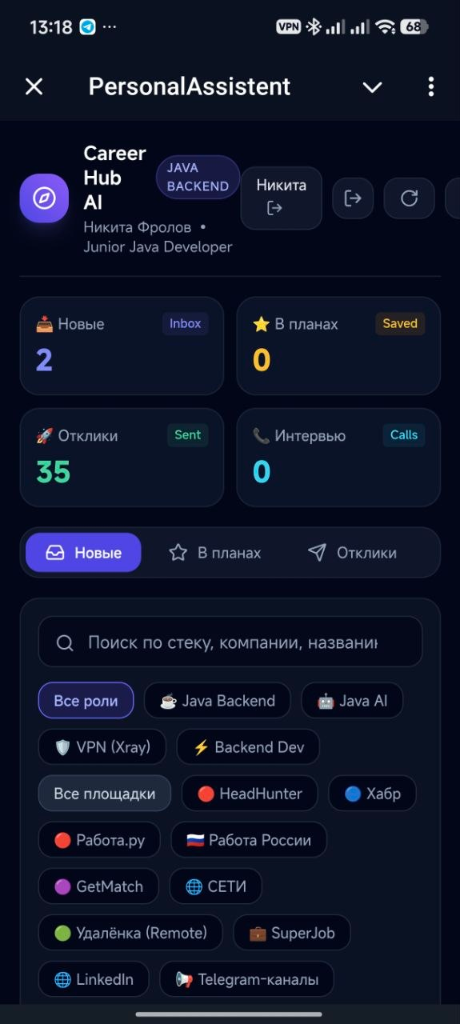
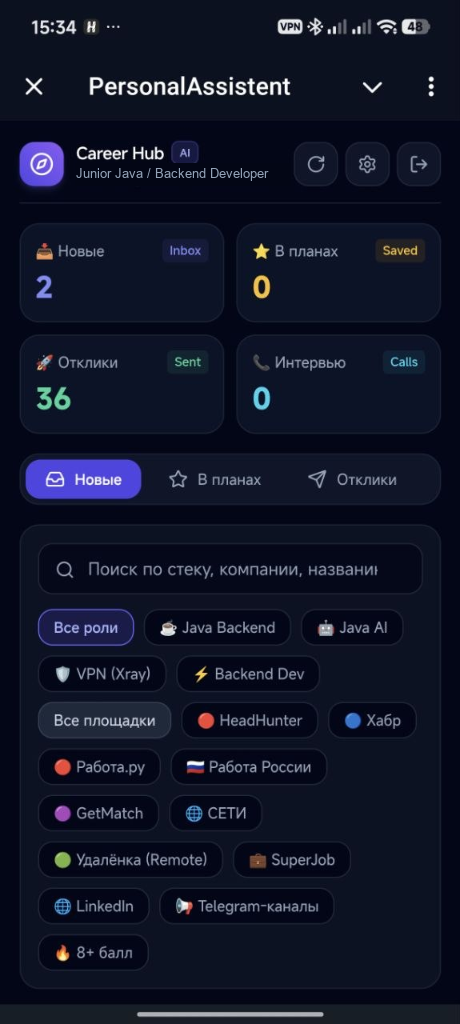
fix(ui): remove personal name from header and update mobile screenshot to clean layout

diff --git a/miniapp_index.html b/miniapp_index.html
@@ -80,7 +80,7 @@
               Java Backend
             </span>
           </div>
-          <p class="text-[11px] sm:text-xs text-slate-400 mt-0.5 truncate" id="candidateName">Никита Фролов • Junior Java Developer</p>
+          <p class="text-[11px] sm:text-xs text-slate-400 mt-0.5 truncate" id="candidateName">Junior Java / Backend Developer</p>
         </div>
       </div>
 
@@ -97,7 +97,7 @@
         <div id="userProfileBadge" class="hidden flex items-center">
           <div class="hidden md:flex items-center gap-2 px-3 py-1.5 rounded-xl bg-slate-900 border border-slate-800 text-xs text-slate-300">
             <span class="w-2 h-2 rounded-full bg-emerald-400 animate-pulse"></span>
-            <span class="font-medium text-slate-200">Никита</span>
+            <span class="font-medium text-slate-200">Профиль</span>
             <button onclick="logout()" title="Выйти с этого устройства" class="ml-1 text-slate-400 hover:text-rose-400 p-0.5 rounded transition">
               <i data-lucide="log-out" class="w-3.5 h-3.5"></i>
             </button>
@@ -397,7 +397,7 @@
 
       <h2 class="text-xl sm:text-2xl font-black text-white">Вход для владельца</h2>
       <p class="text-xs sm:text-sm text-slate-400 mt-2 leading-relaxed">
-        База вакансий и генератор откликов Career Hub защищены. Доступ разрешён исключительно Никите через Telegram.
+        База вакансий и генератор откликов Career Hub защищены. Доступ разрешён исключительно владельцу через Telegram.
       </p>
 
       <!-- Telegram Direct Link Button -->
@@ -1085,7 +1085,7 @@
           document.getElementById('settingMinScore').value = data.auto_apply_min_score || 7;
           
           if (data.hh_web_cookie_valid) {
-            badge.textContent = `🟢 Активна (${data.hh_user_name || 'Никита'})`;
+            badge.textContent = `🟢 Активна (${data.hh_user_name || 'Подключено'})`;
             badge.className = 'text-[10px] px-2 py-0.5 rounded-full font-bold bg-emerald-500/10 text-emerald-400 border border-emerald-500/30';
           } else if (data.hh_web_cookie_configured) {
             badge.textContent = '🟡 Истекла / Требует обновления';

diff --git a/bot.py b/bot.py
@@ -2619,11 +2619,15 @@ def check_hh_web_cookie(cookie_str):
             "Accept": "text/html,application/xhtml+xml,application/xml;q=0.9,*/*;q=0.8",
         }
         r = requests.get(f"https://{host}/applicant/profile/me", headers=headers, timeout=12, allow_redirects=False)
-        if r.status_code == 200 and ("Никита" in r.text or "Фролов" in r.text or "applicant" in r.text):
+        if r.status_code == 200 and ("applicant" in r.text or "resume" in r.text or "profile" in r.text):
             resumes = list(set(re.findall(r'/resume/([a-f0-9]{38})', r.text)))
+            name_m = re.search(r'data-qa="(?:applicant|profile)-name">([^<]+)<', r.text) or re.search(r'"firstName":"([^"]+)".*?"lastName":"([^"]+)"', r.text)
+            c_name = "Соискатель"
+            if name_m:
+                c_name = name_m.group(1).strip() if len(name_m.groups()) == 1 else f"{name_m.group(1)} {name_m.group(2)}"
             return {
                 "ok": True,
-                "name": "Никита Фролов",
+                "name": c_name,
                 "host": host,
                 "resumes": resumes
             }
@@ -3998,7 +4002,7 @@ def telegram_updates_worker():
                             res_count = len(prof.get("resumes", []))
                             send_message(token, msg_chat_id, 
                                 f"🎉 <b>Веб-сессия HeadHunter успешно подключена!</b>\n\n"
-                                f"👤 <b>Кандидат:</b> {html.escape(prof.get('name', 'Никита Фролов'))}\n"
+                                f"👤 <b>Кандидат:</b> {html.escape(prof.get('name', 'Соискатель'))}\n"
                                 f"🌐 <b>Регион/Хост:</b> <code>{html.escape(prof.get('host', 'volgograd.hh.ru'))}</code>\n"
                                 f"📄 <b>Активное резюме:</b> Java-разработчик (<code>{cfg.get('hh_resume_hash', '')}</code>)\n"
                                 f"📋 <b>Резюме в профиле:</b> {res_count}\n\n"
@@ -4108,7 +4112,7 @@ def telegram_updates_worker():
                                     res_hash = cfg.get("hh_resume_hash", os.environ.get("HH_RESUME_HASH", "не задан"))
                                     status_lines.append(
                                         f"🟢 <b>Веб-сессия HeadHunter: Активна</b>\n"
-                                        f"👤 <b>Кандидат:</b> {prof.get('name', 'Никита Фролов')}\n"
+                                        f"👤 <b>Кандидат:</b> {prof.get('name', 'Соискатель')}\n"
                                         f"📄 <b>Резюме:</b> Java-разработчик (<code>{res_hash}</code>)\n"
                                         f"🌐 <b>Хост:</b> {prof.get('host', 'volgograd.hh.ru')}"
                                     )
@@ -4251,7 +4255,7 @@ def telegram_updates_worker():
 
                         if msg_text in ["/start", "/help", "/jobs"] and msg_chat_id:
                             welcome_text = (
-                                "👋 <b>Привет, Никита!</b>\n\n"
+                                "👋 <b>Привет!</b>\n\n"
                                 "Я твой персональный AI-ассистент по поиску вакансий и авто-откликам.\n\n"
                                 "⚡ <b>Умная система фильтрации и авто-откликов:</b>\n"
                                 "• 🔇 <b>Без спама:</b> Вакансии со средним скором (6-8/10) тихо сохраняются в Career Hub без лишних уведомлений.\n"
@@ -4869,7 +4873,7 @@ class MiniAppRequestHandler(BaseHTTPRequestHandler):
                 hh_cookie_info = check_hh_web_cookie(hh_cookie)
                 if hh_cookie_info and hh_cookie_info.get("ok"):
                     hh_cookie_valid = True
-                    hh_user_name = hh_cookie_info.get("name", "Никита Фролов")
+                    hh_user_name = hh_cookie_info.get("name", "Соискатель")
 
             resp_data = {
                 "ok": True,
@@ -5221,7 +5225,7 @@ class MiniAppRequestHandler(BaseHTTPRequestHandler):
                 self.wfile.write(json.dumps({
                     "ok": True,
                     "valid": True,
-                    "name": res.get("name", "Никита Фролов"),
+                    "name": res.get("name", "Соискатель"),
                     "host": res.get("host", "hh.ru"),
                     "resumes_count": len(res.get("resumes", []))
                 }, ensure_ascii=False).encode("utf-8"))
